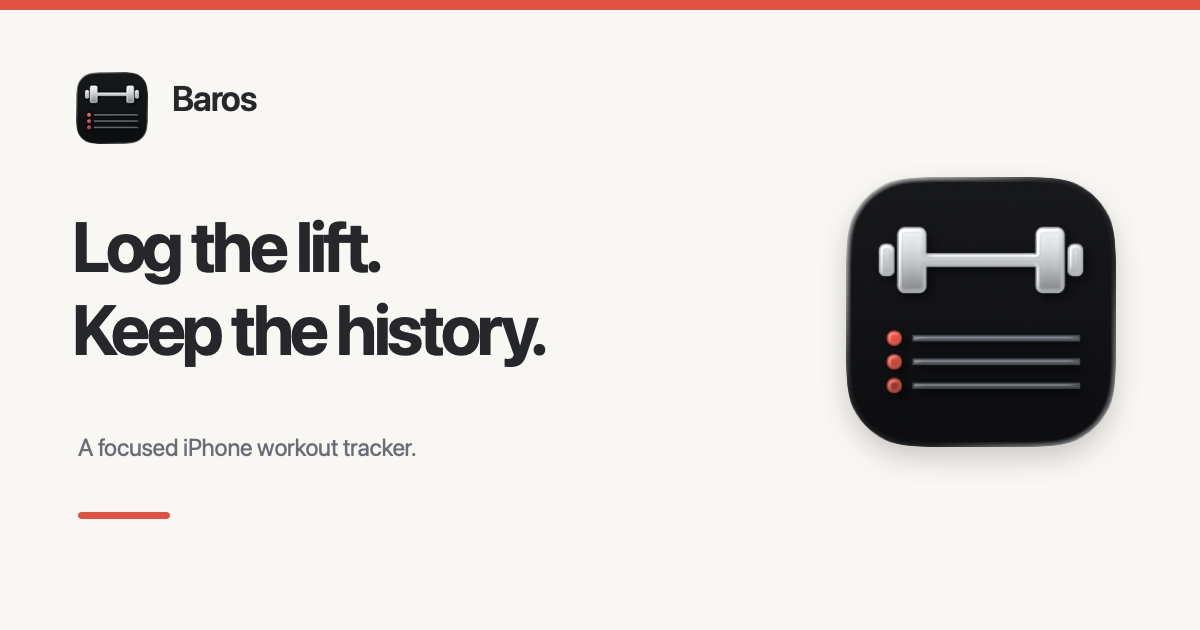
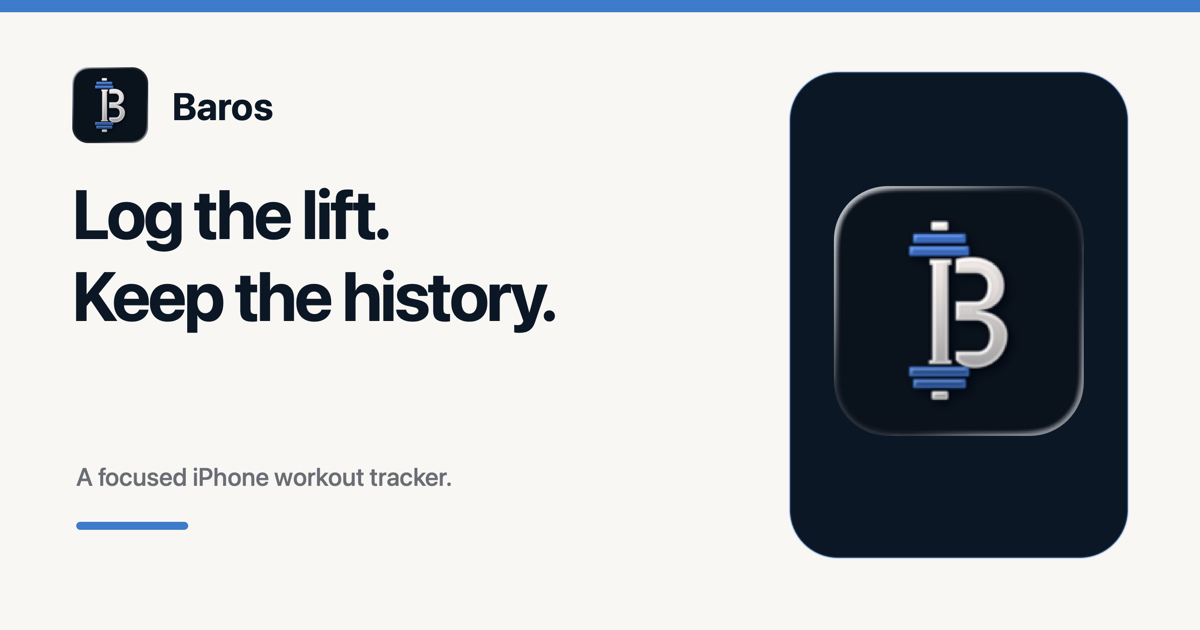
Refresh Baros site identity (#171)

diff --git a/SupportSite/src/styles/global.css b/SupportSite/src/styles/global.css
@@ -2,13 +2,15 @@
 
 @theme {
   --color-page: #f7f5f1;
-  --color-ink: #171717;
-  --color-muted: #65635f;
-  --color-border: #dedbd4;
-  --color-link: #b4231f;
-  --color-accent: #b8322d;
-  --color-accent-on-dark: #ff6b65;
-  --color-dark: #101010;
+  --color-ink: #09121d;
+  --color-muted: #565a62;
+  --color-border: #d9d7d2;
+  --color-link: #1c66c7;
+  --color-accent: #1c66c7;
+  --color-accent-on-dark: #f3ebe7;
+  --color-brand-silver: #f3ebe7;
+  --color-dark-muted: #b7bbc1;
+  --color-dark: #09121d;
   --font-sans: -apple-system, BlinkMacSystemFont, "SF Pro Display", "Segoe UI",
     system-ui, sans-serif;
 }
@@ -45,6 +47,14 @@
   a:focus-visible {
     outline: 2px solid var(--color-link);
     outline-offset: 3px;
+  }
+}
+
+@layer components {
+  .marketing-hero {
+    background:
+      radial-gradient(circle at 82% 36%, rgb(28 102 199 / 14%), transparent 29%),
+      radial-gradient(circle at 78% 48%, rgb(243 235 231 / 34%), transparent 42%);
   }
 }
 
